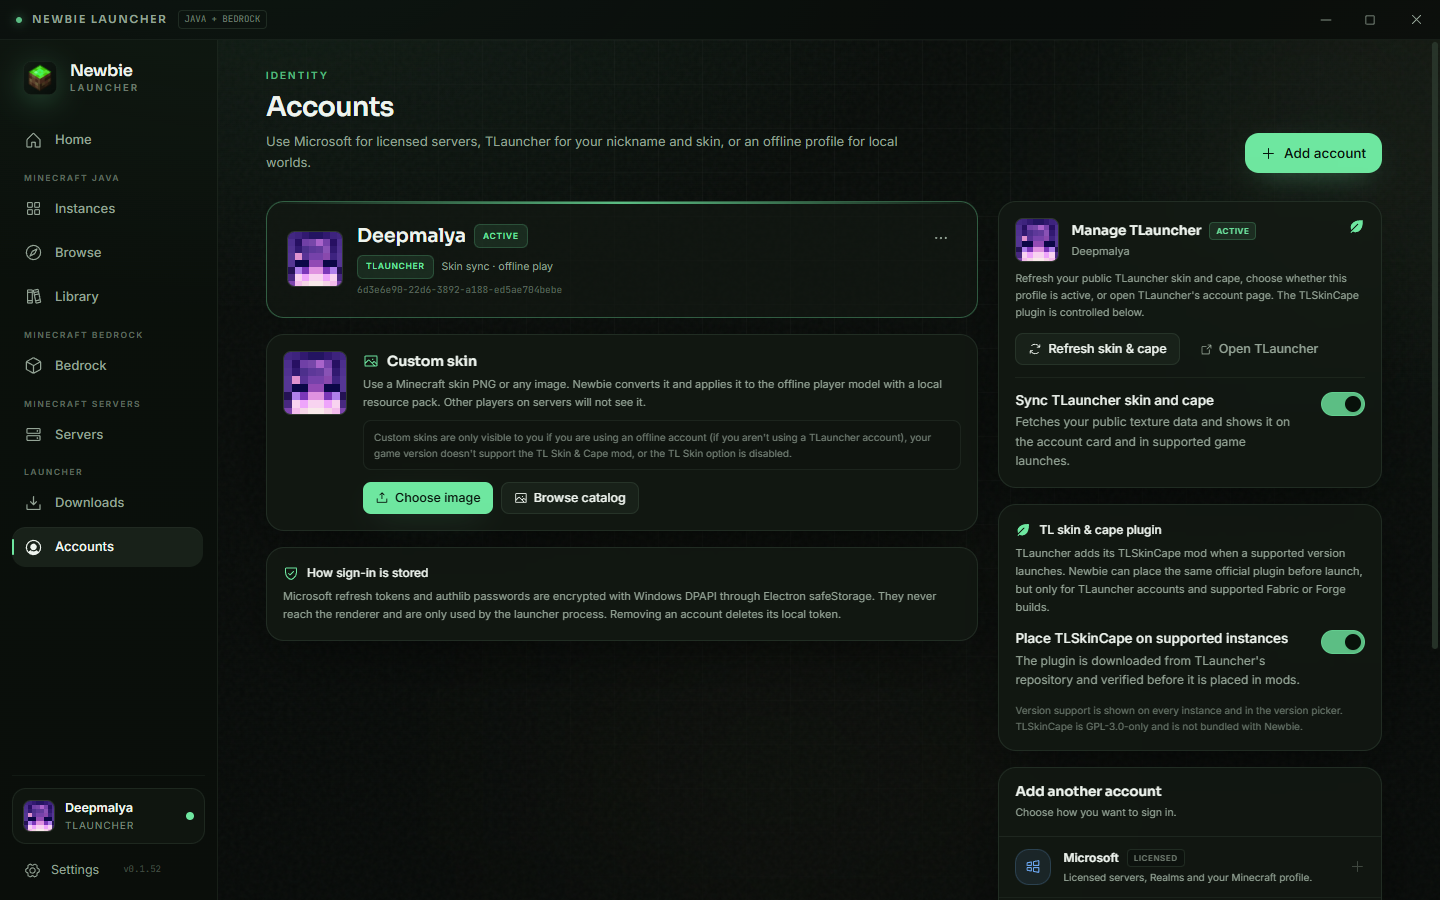
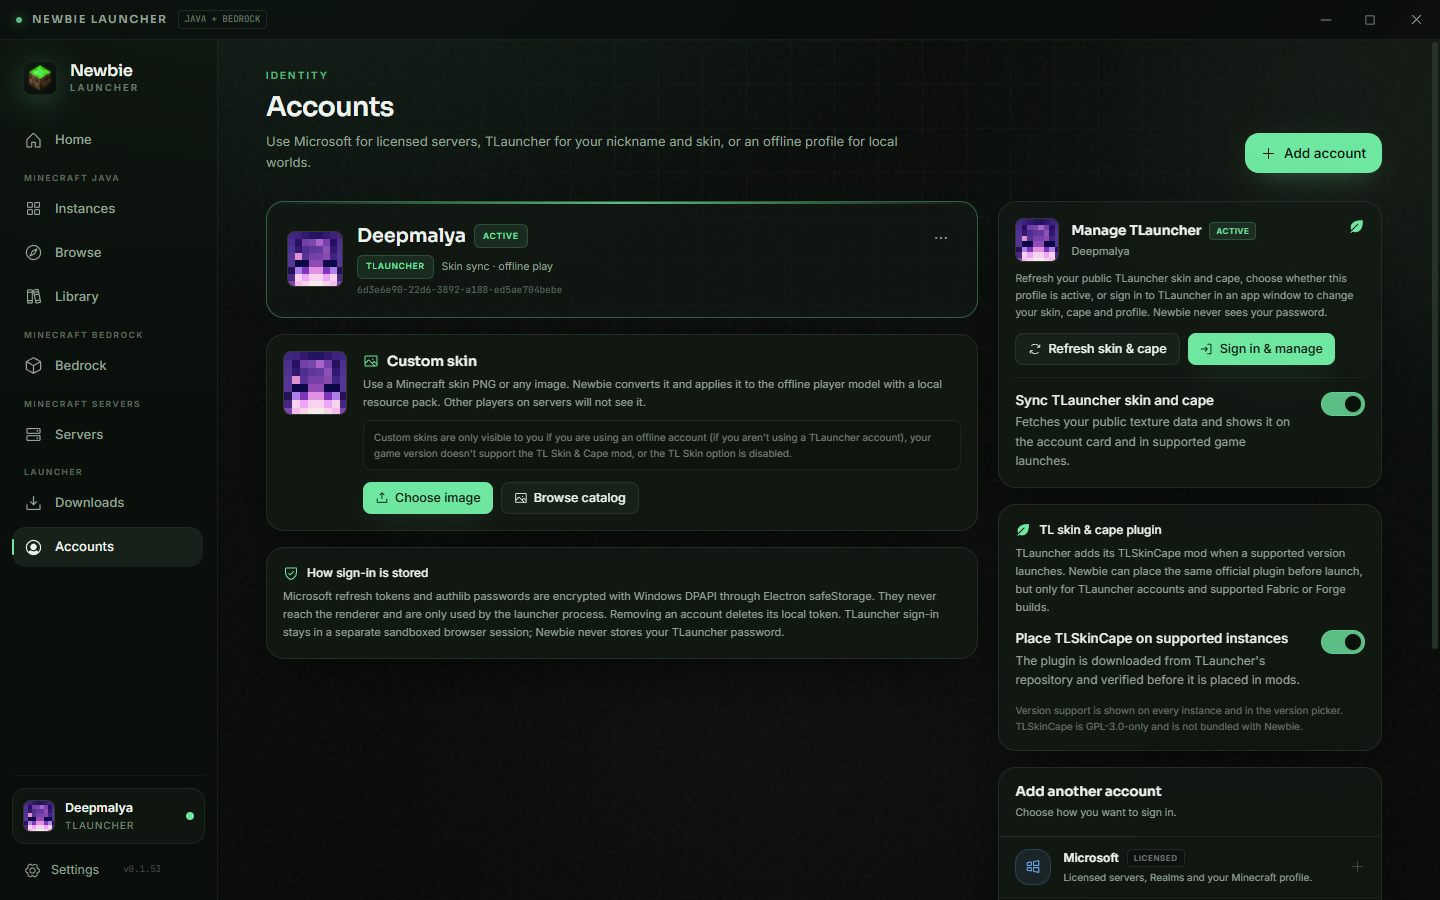
feat(accounts): manage TLauncher inside Newbie
Adds a Sign in & manage action to the Manage TLauncher card. It opens TLauncher's own captcha-protected account page in a sandboxed modal Newbie window instead of the external browser, keeps the session in a persistent partition, and refreshes the public skin and cape when the window closes. Newbie never sees or stores the TLauncher password. Only TLauncher and Cloudflare challenge pages stay in the window; other links open externally.

Changed region(s): [[0.7188, 0.3111, 0.9375, 0.4044], [0.1875, 0.6844, 0.5312, 0.7156]]

diff --git a/src/main/window.ts b/src/main/window.ts
@@ -13,6 +13,12 @@ let quitting = false
 let hiddenForGame = false
 let activeGameSessions = 0
 
+const TLAUNCHER_HOME_URL = 'https://tlauncher.org/en/'
+const TLAUNCHER_PARTITION = 'persist:newbie-tlauncher'
+const TLAUNCHER_WINDOW_TITLE = 'TLauncher account — Newbie Launcher'
+let tlauncherWindow: BrowserWindow | null = null
+let tlauncherWindowResolvers: (() => void)[] = []
+
 function appIconPath(): string {
   if (app.isPackaged) {
     const unpacked = path.join(process.resourcesPath, 'app.asar.unpacked', 'resources', 'icon.png')
@@ -128,6 +134,121 @@ export async function openExternalSafe(raw: string): Promise<void> {
   } catch {
     logger.warn('window', `Invalid external URL: ${raw}`)
   }
+}
+
+function isTlauncherPage(raw: string): boolean {
+  try {
+    const url = new URL(raw)
+    if (url.protocol !== 'https:') return false
+    return (
+      url.hostname === 'tlauncher.org' ||
+      url.hostname.endsWith('.tlauncher.org') ||
+      url.hostname === 'challenges.cloudflare.com'
+    )
+  } catch {
+    return false
+  }
+}
+
+/**
+ * TLauncher owns the captcha-protected sign-in and profile editor, so use
+ * their real page in a sandboxed Newbie window. The persistent partition keeps
+ * the session between visits without Newbie ever seeing the password.
+ */
+export function openTlauncherManager(): Promise<void> {
+  if (tlauncherWindow && !tlauncherWindow.isDestroyed()) {
+    if (tlauncherWindow.isMinimized()) tlauncherWindow.restore()
+    tlauncherWindow.show()
+    tlauncherWindow.focus()
+    return new Promise((resolve) => tlauncherWindowResolvers.push(resolve))
+  }
+
+  const parent = mainWindow && !mainWindow.isDestroyed() ? mainWindow : undefined
+  const win = new BrowserWindow({
+    width: 1040,
+    height: 820,
+    minWidth: 860,
+    minHeight: 620,
+    parent,
+    modal: Boolean(parent),
+    show: false,
+    autoHideMenuBar: true,
+    title: TLAUNCHER_WINDOW_TITLE,
+    icon: appIconPath(),
+    backgroundColor: '#ECF4F7',
+    webPreferences: {
+      partition: TLAUNCHER_PARTITION,
+      contextIsolation: true,
+      nodeIntegration: false,
+      sandbox: true,
+      webSecurity: true,
+      spellcheck: false
+    }
+  })
+  tlauncherWindow = win
+  win.removeMenu()
+  win.webContents.setUserAgent(
+    win.webContents.getUserAgent().replace(/\sElectron\/[\d.]+/i, '')
+  )
+  win.webContents.session.setPermissionRequestHandler((_contents, _permission, callback) =>
+    callback(false)
+  )
+
+  win.on('page-title-updated', (event) => {
+    event.preventDefault()
+    win.setTitle(TLAUNCHER_WINDOW_TITLE)
+  })
+  win.webContents.setWindowOpenHandler(({ url }) => {
+    if (isTlauncherPage(url)) void win.loadURL(url)
+    else void openExternalSafe(url)
+    return { action: 'deny' }
+  })
+  win.webContents.on('will-navigate', (event, url) => {
+    if (isTlauncherPage(url)) return
+    event.preventDefault()
+    void openExternalSafe(url)
+  })
+  win.webContents.on('will-redirect', (event, url) => {
+    if (isTlauncherPage(url)) return
+    event.preventDefault()
+    void openExternalSafe(url)
+  })
+
+  let loginShown = false
+  win.webContents.on('did-finish-load', () => {
+    if (!win.isVisible()) win.show()
+    if (loginShown) return
+    void win.webContents
+      .executeJavaScript(`
+        (() => {
+          const link = document.querySelector('a[href="#login"]')
+          if (link instanceof HTMLElement) {
+            link.click()
+            return true
+          }
+          return false
+        })()
+      `)
+      .then((opened: unknown) => {
+        if (opened === true) loginShown = true
+      })
+      .catch(() => undefined)
+  })
+  win.webContents.on('did-fail-load', (_event, code, description) => {
+    logger.warn('tlauncher', `TLauncher page failed to load: ${code} ${description}`)
+  })
+  win.once('ready-to-show', () => win.show())
+  win.on('closed', () => {
+    if (tlauncherWindow === win) tlauncherWindow = null
+    const resolvers = tlauncherWindowResolvers
+    tlauncherWindowResolvers = []
+    for (const resolve of resolvers) resolve()
+    logger.info('tlauncher', 'TLauncher account window closed')
+  })
+
+  logger.info('tlauncher', 'Opened TLauncher account window')
+  void win.loadURL(TLAUNCHER_HOME_URL)
+  return new Promise((resolve) => tlauncherWindowResolvers.push(resolve))
 }
 
 export async function pickDirectory(defaultPath?: string): Promise<string | null> {

diff --git a/src/renderer/pages/AccountsPage.tsx b/src/renderer/pages/AccountsPage.tsx
@@ -1,6 +1,6 @@
 import { useState } from 'react'
 import { useQueryClient } from '@tanstack/react-query'
-import { ArrowSquareOut, ArrowsClockwise, CheckCircle, Image, Leaf, Plus, ShieldCheck, Trash, UploadSimple, UserCircle, WifiSlash, WindowsLogo } from '@phosphor-icons/react'
+import { ArrowsClockwise, CheckCircle, Image, Leaf, Plus, ShieldCheck, SignIn, Trash, UploadSimple, UserCircle, WifiSlash, WindowsLogo } from '@phosphor-icons/react'
 import type { AccountSummary } from '@shared/types'
 import { useAccounts, useSettings, qk } from '../hooks/queries'
 import { toast, useUi } from '../store/ui'
@@ -90,7 +90,8 @@ export function AccountsPage() {
               <p className="mt-1.5 text-[11px] leading-relaxed text-muted">
                 Microsoft refresh tokens and authlib passwords are encrypted with Windows DPAPI through Electron safeStorage.
                 They never reach the renderer and are only used by the launcher process. Removing an account deletes its
-                local token.
+                local token. TLauncher sign-in stays in a separate sandboxed browser session; Newbie never stores your
+                TLauncher password.
               </p>
             </Card>
           </div>
@@ -127,6 +128,25 @@ function TlauncherManageCard({
       toast('success', 'TLauncher profile refreshed', account.username)
     } catch (error) {
       toast('error', 'Could not refresh the TLauncher profile', errorMessage(error))
+    } finally {
+      setBusy(false)
+    }
+  }
+
+  const manage = async (): Promise<void> => {
+    setBusy(true)
+    try {
+      await window.newbie.accounts.manageTlauncher(account.id)
+      onChanged()
+      if (settings?.tlauncherSkins ?? true) {
+        toast(
+          'success',
+          'TLauncher profile refreshed',
+          'Your skin and cape were checked after the TLauncher window closed.'
+        )
+      }
+    } catch (error) {
+      toast('error', 'Could not open TLauncher', errorMessage(error))
     } finally {
       setBusy(false)
     }
@@ -178,8 +198,8 @@ function TlauncherManageCard({
       </div>
 
       <p className="mt-2 text-[10.5px] leading-relaxed text-muted">
-        Refresh your public TLauncher skin and cape, choose whether this profile is active, or open TLauncher&apos;s
-        account page. The TLSkinCape plugin is controlled below.
+        Refresh your public TLauncher skin and cape, choose whether this profile is active, or sign in to TLauncher
+        in an app window to change your skin, cape and profile. Newbie never sees your password.
       </p>
 
       <div className="mt-3 flex flex-wrap gap-2">
@@ -198,12 +218,13 @@ function TlauncherManageCard({
           </Button>
         )}
         <Button
-          variant="ghost"
+          variant={account.active ? 'primary' : 'secondary'}
           size="sm"
-          onClick={() => void window.newbie.app.openExternal('https://tlauncher.org/')}
-          icon={<ArrowSquareOut size={13} />}
+          loading={busy}
+          onClick={() => void manage()}
+          icon={<SignIn size={14} />}
         >
-          Open TLauncher
+          Sign in &amp; manage
         </Button>
       </div>
 

diff --git a/src/main/ipc.ts b/src/main/ipc.ts
@@ -158,6 +158,7 @@ import {
   getMainWindow,
   minimizeWindow,
   openExternalSafe,
+  openTlauncherManager,
   pickDirectory,
   pickFile,
   pickSaveFile,
@@ -455,6 +456,21 @@ export function registerIpc(): void {
     }
     throw new Error('This account type does not need refreshing')
   })
+  ipcMain.handle(
+    IPC.accountsManageTlauncher,
+    async (_event, id: string): Promise<void> => {
+      const accountId = z.string().parse(id)
+      const account = store.account(accountId)
+      if (!account || account.type !== 'tlauncher') {
+        throw new Error('TLauncher account not found')
+      }
+      await openTlauncherManager()
+      if (!store.account(accountId) || !store.settings().tlauncherSkins) return
+      await refreshTLauncherAccount(accountId).catch((error) => {
+        logger.warn('auth', 'Could not refresh TLauncher textures after managing the account', error)
+      })
+    }
+  )
 
   ipcMain.handle(IPC.serversList, () => listServers())
   ipcMain.handle(IPC.serversGet, (_event, id: string) => getServer(z.string().parse(id)))

diff --git a/site/index.html b/site/index.html
@@ -322,10 +322,10 @@
             <article class="bento-card bento-card--accounts spotlight" data-reveal style="--delay: 120ms">
               <span class="feature-icon"><svg aria-hidden="true" class="icon"><use href="#i-users" /></svg></span>
               <h3>Your accounts, your skins.</h3>
-              <p>Microsoft, TLauncher, offline and authlib profiles in one place, with a TLauncher manage card and an online skin catalog.</p>
+              <p>Microsoft, TLauncher, offline and authlib profiles in one place. TLauncher sign-in opens inside Newbie for skin and cape changes, and the online catalog covers offline profiles.</p>
               <div class="chip-row">
                 <span class="chip">Microsoft</span>
-                <span class="chip">TLauncher</span>
+                <span class="chip">TLauncher sign-in</span>
                 <span class="chip">Offline</span>
                 <span class="chip">Authlib</span>
                 <span class="chip">Skin catalog</span>

diff --git a/src/shared/ipc.ts b/src/shared/ipc.ts
@@ -86,6 +86,7 @@ export const IPC = {
   accountsRemove: 'accounts:remove',
   accountsSetActive: 'accounts:set-active',
   accountsRefresh: 'accounts:refresh',
+  accountsManageTlauncher: 'accounts:manage-tlauncher',
   accountsSetSkin: 'accounts:set-skin',
   accountsRemoveSkin: 'accounts:remove-skin',
   skinsSearch: 'skins:search',
@@ -250,6 +251,7 @@ export interface NewbieApi {
     remove(id: string): Promise<void>
     setActive(id: string): Promise<void>
     refresh(id: string): Promise<AccountSummary>
+    manageTlauncher(id: string): Promise<void>
     setSkin(id: string, filePath: string): Promise<AccountSummary>
     removeSkin(id: string): Promise<AccountSummary>
   }

diff --git a/src/preload/index.ts b/src/preload/index.ts
@@ -42,6 +42,7 @@ const api: NewbieApi = {
     remove: (id) => ipcRenderer.invoke(IPC.accountsRemove, id),
     setActive: (id) => ipcRenderer.invoke(IPC.accountsSetActive, id),
     refresh: (id) => ipcRenderer.invoke(IPC.accountsRefresh, id),
+    manageTlauncher: (id) => ipcRenderer.invoke(IPC.accountsManageTlauncher, id),
     setSkin: (id, filePath) => ipcRenderer.invoke(IPC.accountsSetSkin, id, filePath),
     removeSkin: (id) => ipcRenderer.invoke(IPC.accountsRemoveSkin, id)
   },

diff --git a/README.md b/README.md
@@ -34,7 +34,7 @@ Installers are published on the [Releases](https://github.com/Deepma1ya/Newbie-L
 | **Servers** | One-click local Java servers plus official Bedrock Dedicated Server, with a live console, GUI settings, Modrinth add-ons, server resource packs, scheduled restarts and one-click internet relays |
 | **Sharing** | Play with friends through playit.gg, port forwarding, Radmin VPN, ngrok or Cloudflare. Detects LAN/Radmin/public addresses, shows difficulty levels, and lets you copy and test the address. |
 | **Java** | Detects installed JDKs/JREs, then downloads Eclipse Temurin JRE 8/11/17/21/25 from Adoptium when a version needs it |
-| **Accounts** | Microsoft OAuth sign-in, TLauncher nickname + official TLSkinCape plugin, offline profiles, generic authlib/Yggdrasil servers, a TLauncher manage card and an online skin catalog |
+| **Accounts** | Microsoft OAuth sign-in, TLauncher nickname + official TLSkinCape plugin, offline profiles, generic authlib/Yggdrasil servers, in-app TLauncher account management and an online skin catalog |
 | **Browse** | Modrinth. Use the `+` button to install straight into the selected instance, with dependencies resolved. Modpacks install as new instances or into a matching existing instance. No API key required. |
 | **Datapacks** | Modrinth datapacks installed directly into a chosen world's `datapacks` folder, or kept in an instance staging folder. Required dependencies and updates follow the same target. |
 | **Library** | Review installed mods, resource packs, datapacks and shaders by section; update them or delete a whole section with confirmation. |
@@ -140,7 +140,7 @@ The server **Share** tab detects your LAN, Radmin VPN and public addresses, your
 </p>
 
 - **Microsoft** — opens Microsoft's real sign-in page in an embedded window. The resulting Minecraft token is used for licensed Java servers, and signing in makes that account the active player for the next launch. The Xbox gamertag and XUID are stored for Bedrock server allow lists. Tokens are encrypted with Windows DPAPI via Electron `safeStorage` and never reach the UI process.
-- **TLauncher** — stores your public TLauncher nickname and syncs your public skin/cape from `auth.tlauncher.org`. TLauncher does not issue Mojang/Microsoft game licences, so these profiles play in offline mode. In-game TLauncher skin rendering is on the roadmap; the launcher avatar sync is implemented.
+- **TLauncher** — stores your public TLauncher nickname and syncs your public skin/cape from `auth.tlauncher.org`. **Sign in & manage** opens TLauncher's own secure account page in a Newbie window, so you can change your skin, cape, login or password without leaving Newbie. The session persists between visits and Newbie never sees your password. TLauncher does not issue Mojang/Microsoft game licences, so these profiles play in offline mode. In-game TLauncher skin rendering is on the roadmap; the launcher avatar sync is implemented.
 - **Offline** — a local username for single-player, LAN and offline-mode servers. You can upload a custom skin from the Accounts page or browse the online skin catalog; the launcher converts PNG, JPEG, WebP, BMP, GIF or TIFF images and applies it to the default player model through a local resource pack. Other players on servers will see the normal offline skin. Custom skins are only visible to you when you are using an offline account (or a TLauncher account without the TL Skin & Cape mod/option); capes remain managed by TLauncher.
 - **Authlib** — third-party Yggdrasil servers (Ely.by, LittleSkin, private servers). The API root is resolved with the standard ALI header.
 
